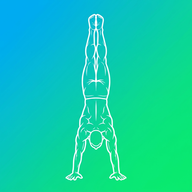
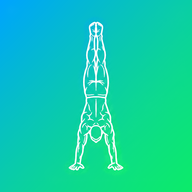
design: atualiza icone com respiro sutil de 11.5% e tracos brancos mais marcantes

Changed region(s): [[0.3438, 0.0625, 0.6562, 0.9375]]

diff --git a/sw.js b/sw.js
@@ -1,4 +1,4 @@
-const CACHE_NAME = 'dominio-corporal-v121';
+const CACHE_NAME = 'dominio-corporal-v122';
 const ASSETS_TO_CACHE = [
   './',
   './index.html',
